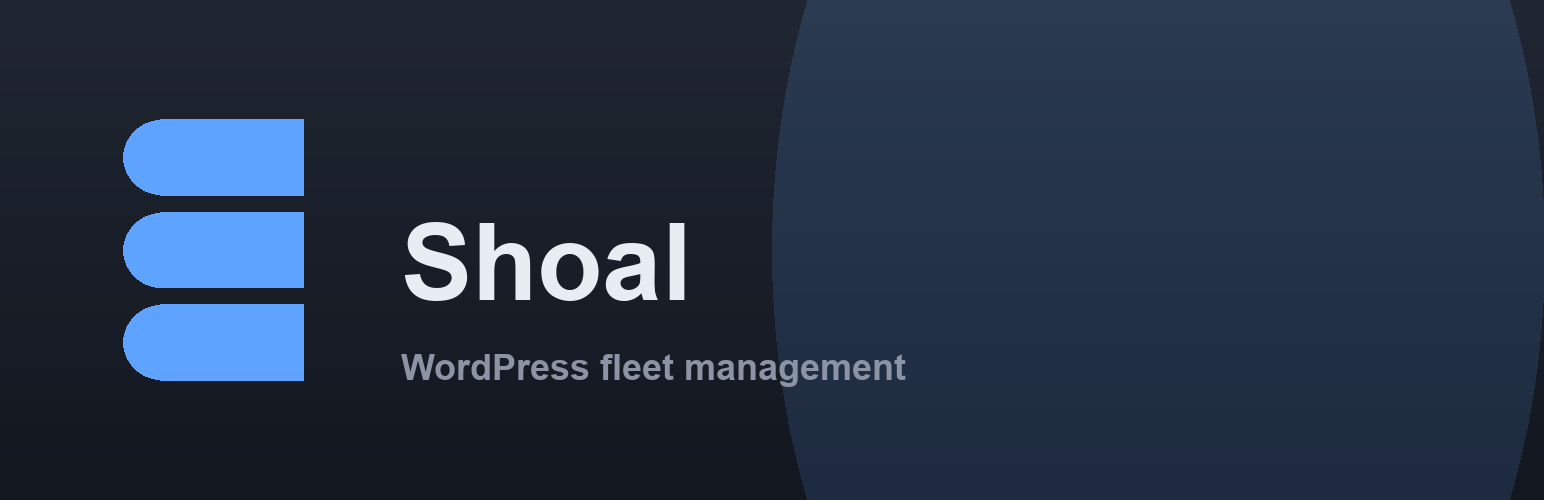
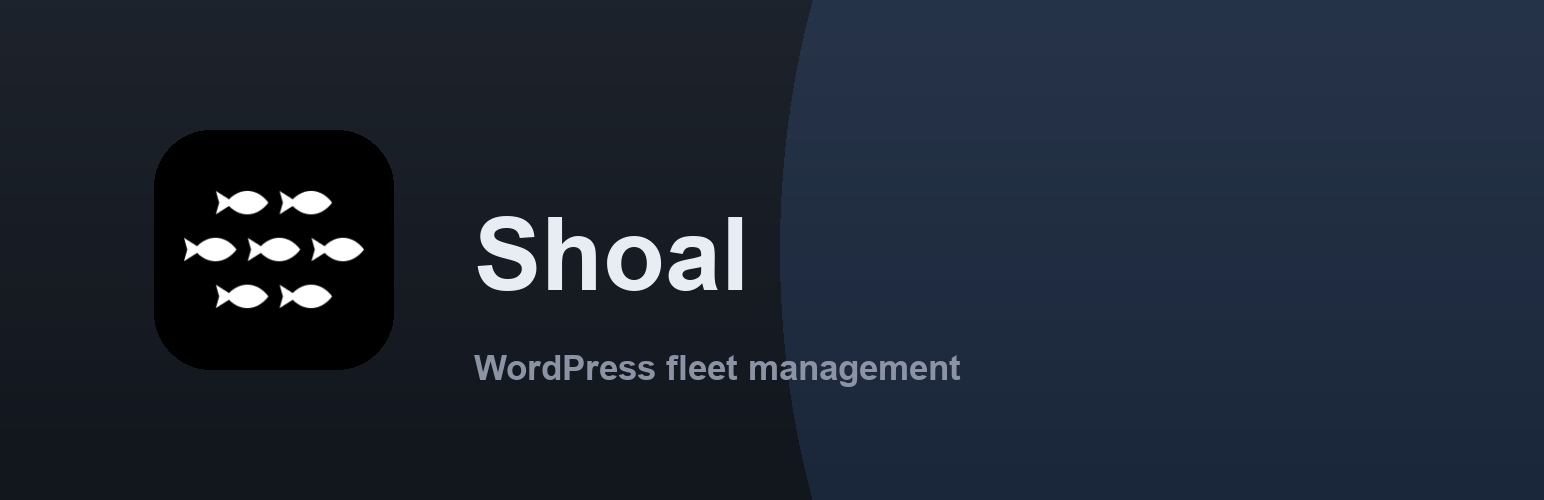
Use the Shoal brand assets across the app and agent plugin
- app-logo-icon replaces the starter-kit glyph with the shoal
  fish mark (currentColor, so it follows the theme)
- public/ favicons, apple-touch-icon and favicon.ico rebuilt from
  the brand kit; blade template links the PNG sizes
- plugin banner/icon regenerated from the real logo; the settings
  page banner now spans the content width and the mock screenshot
  is removed

Generated with [Devin](https://devin.ai)

Changed region(s): [[0.0622, 0.0, 0.6218, 1.0], [0.9637, 0.63, 1.0, 1.0]]

diff --git a/resources/js/components/app-logo-icon.tsx b/resources/js/components/app-logo-icon.tsx
@@ -2,12 +2,14 @@ import type { SVGAttributes } from 'react';
 
 export default function AppLogoIcon(props: SVGAttributes<SVGElement>) {
     return (
-        <svg {...props} viewBox="0 0 40 42" xmlns="http://www.w3.org/2000/svg">
-            <path
-                fillRule="evenodd"
-                clipRule="evenodd"
-                d="M17.2 5.63325L8.6 0.855469L0 5.63325V32.1434L16.2 41.1434L32.4 32.1434V23.699L40 19.4767V9.85547L31.4 5.07769L22.8 9.85547V18.2999L17.2 21.411V5.63325ZM38 18.2999L32.4 21.411V15.2545L38 12.1434V18.2999ZM36.9409 10.4439L31.4 13.5221L25.8591 10.4439L31.4 7.36561L36.9409 10.4439ZM24.8 18.2999V12.1434L30.4 15.2545V21.411L24.8 18.2999ZM23.8 20.0323L29.3409 23.1105L16.2 30.411L10.6591 27.3328L23.8 20.0323ZM7.6 27.9212L15.2 32.1434V38.2999L2 30.9666V7.92116L7.6 11.0323V27.9212ZM8.6 9.29991L3.05913 6.22165L8.6 3.14339L14.1409 6.22165L8.6 9.29991ZM30.4 24.8101L17.2 32.1434V38.2999L30.4 30.9666V24.8101ZM9.6 11.0323L15.2 7.92117V22.5221L9.6 25.6333V11.0323Z"
-            />
+        <svg {...props} viewBox="0 0 256 256" xmlns="http://www.w3.org/2000/svg">
+            <path d="M66 65.0418L80 73.9405C92.25 61.4823 109.75 61.4823 122 77.5C109.75 93.5177 92.25 93.5177 80 81.0595L66 89.9582L69.5 77.5L66 65.0418Z" fill="currentColor" />
+            <path d="M134 65.0418L148 73.9405C160.25 61.4823 177.75 61.4823 190 77.5C177.75 93.5177 160.25 93.5177 148 81.0595L134 89.9582L137.5 77.5L134 65.0418Z" fill="currentColor" />
+            <path d="M32 115.042L46 123.941C58.25 111.482 75.75 111.482 88 127.5C75.75 143.518 58.25 143.518 46 131.059L32 139.958L35.5 127.5L32 115.042Z" fill="currentColor" />
+            <path d="M100 115.042L114 123.941C126.25 111.482 143.75 111.482 156 127.5C143.75 143.518 126.25 143.518 114 131.059L100 139.958L103.5 127.5L100 115.042Z" fill="currentColor" />
+            <path d="M168 115.042L182 123.941C194.25 111.482 211.75 111.482 224 127.5C211.75 143.518 194.25 143.518 182 131.059L168 139.958L171.5 127.5L168 115.042Z" fill="currentColor" />
+            <path d="M66 165.042L80 173.941C92.25 161.482 109.75 161.482 122 177.5C109.75 193.518 92.25 193.518 80 181.059L66 189.958L69.5 177.5L66 165.042Z" fill="currentColor" />
+            <path d="M134 165.042L148 173.941C160.25 161.482 177.75 161.482 190 177.5C177.75 193.518 160.25 193.518 148 181.059L134 189.958L137.5 177.5L134 165.042Z" fill="currentColor" />
         </svg>
     );
 }

diff --git a/wp-agent/shoal-agent.php b/wp-agent/shoal-agent.php
@@ -207,16 +207,16 @@ function shoal_agent_render_settings_page(): void
     $assets = plugins_url('assets/', __FILE__);
     $connected = $token !== '';
     ?>
-    <div class="wrap shoal-agent-wrap" style="max-width:1100px;">
-        <div style="margin:20px 0 0 -22px;">
+    <div class="wrap shoal-agent-wrap" style="max-width:1180px;">
+        <div style="margin:20px 0 0;">
             <img src="<?php echo esc_url($assets.'banner-772x250.png'); ?>"
                  srcset="<?php echo esc_url($assets.'banner-1544x500.png'); ?> 2x"
                  alt="<?php esc_attr_e('Shoal — WordPress fleet management', 'shoal-agent'); ?>"
-                 style="width:100%;max-width:772px;height:auto;display:block;border-radius:8px;" />
+                 style="width:100%;height:auto;display:block;border-radius:8px;" />
         </div>
 
-        <div style="display:flex;gap:24px;align-items:flex-start;margin-top:24px;flex-wrap:wrap;">
-            <div style="flex:1;min-width:380px;background:#fff;border:1px solid #dcdcde;border-radius:8px;padding:24px;">
+        <div style="margin-top:24px;">
+            <div style="background:#fff;border:1px solid #dcdcde;border-radius:8px;padding:24px;max-width:640px;">
                 <h2 style="margin-top:0;"><?php esc_html_e('Connect this site to Shoal', 'shoal-agent'); ?></h2>
                 <p><?php esc_html_e('Paste the API token generated for this site in your Shoal dashboard (site page → Agent Setup).', 'shoal-agent'); ?></p>
 
@@ -276,14 +276,6 @@ function shoal_agent_render_settings_page(): void
                 <p><code><?php echo esc_url(rest_url('agent/v1/system-info')); ?></code></p>
             </div>
 
-            <div style="flex:1;min-width:380px;">
-                <img src="<?php echo esc_url($assets.'screenshot-1.png'); ?>"
-                     alt="<?php esc_attr_e('The Shoal dashboard', 'shoal-agent'); ?>"
-                     style="width:100%;height:auto;display:block;border-radius:8px;border:1px solid #dcdcde;" />
-                <p style="color:#646970;font-size:13px;margin-top:8px;">
-                    <?php esc_html_e('Sites, updates and security status in one place — from your Shoal dashboard.', 'shoal-agent'); ?>
-                </p>
-            </div>
         </div>
     </div>
     <?php

diff --git a/app/Http/Controllers/AgentPluginController.php b/app/Http/Controllers/AgentPluginController.php
@@ -45,7 +45,7 @@ class AgentPluginController extends Controller
         $zip->addEmptyDir('shoal-agent');
         $zip->addFile($pluginPath, 'shoal-agent/shoal-agent.php');
 
-        foreach (glob(dirname($pluginPath).'/assets/*.png') ?: [] as $asset) {
+        foreach (glob(dirname($pluginPath).'/assets/*.{png,svg}', GLOB_BRACE) ?: [] as $asset) {
             $zip->addFile($asset, 'shoal-agent/assets/'.basename($asset));
         }
 

diff --git a/resources/views/app.blade.php b/resources/views/app.blade.php
@@ -32,6 +32,8 @@
 
         <link rel="icon" href="/favicon.ico" sizes="any">
         <link rel="icon" href="/favicon.svg" type="image/svg+xml">
+        <link rel="icon" type="image/png" sizes="16x16" href="/favicon-16x16.png">
+        <link rel="icon" type="image/png" sizes="32x32" href="/favicon-32x32.png">
         <link rel="apple-touch-icon" href="/apple-touch-icon.png">
 
         @fonts
